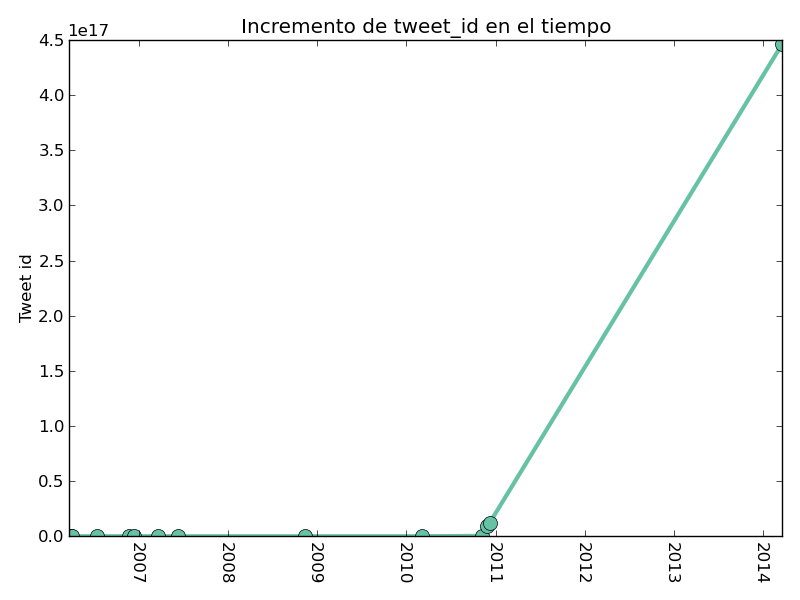
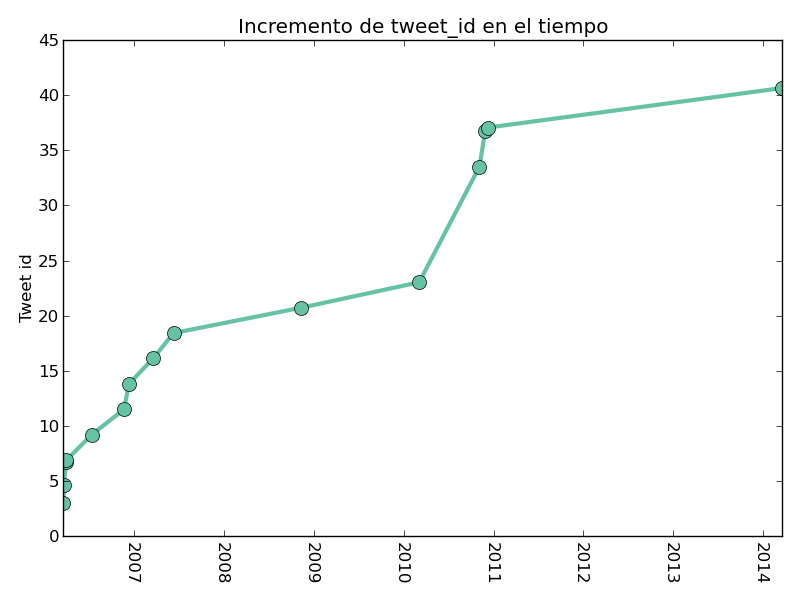
find distribution using R

diff --git a/plot.py b/plot.py
@@ -5,8 +5,11 @@ import math
 import matplotlib.pyplot as plt
 import brewer2mpl
 import datetime
+import time
 import sys
 
+
+start_timestamp = time.mktime(datetime.datetime(2006,3,21).timetuple())
 x_axis = []
 y_axis = []
 
@@ -15,10 +18,11 @@ with open("output.csv", "r") as filename:
         i = i.strip().split(",")
         date = datetime.datetime.strptime(i[0], "%Y-%m-%d %H:%M:%S")
         tweet_id = i[1]
+        print int(time.mktime(date.timetuple()) - start_timestamp), tweet_id
 
         x_axis.append(date)
-        y_axis.append(float(tweet_id))
-        #y_axis.append(math.log(float(tweet_id)))
+        #y_axis.append(float(tweet_id))
+        y_axis.append(math.log(float(tweet_id)))
 
 # queremos color
 set2 = brewer2mpl.get_map('Set2', 'qualitative', 8).mpl_colors
